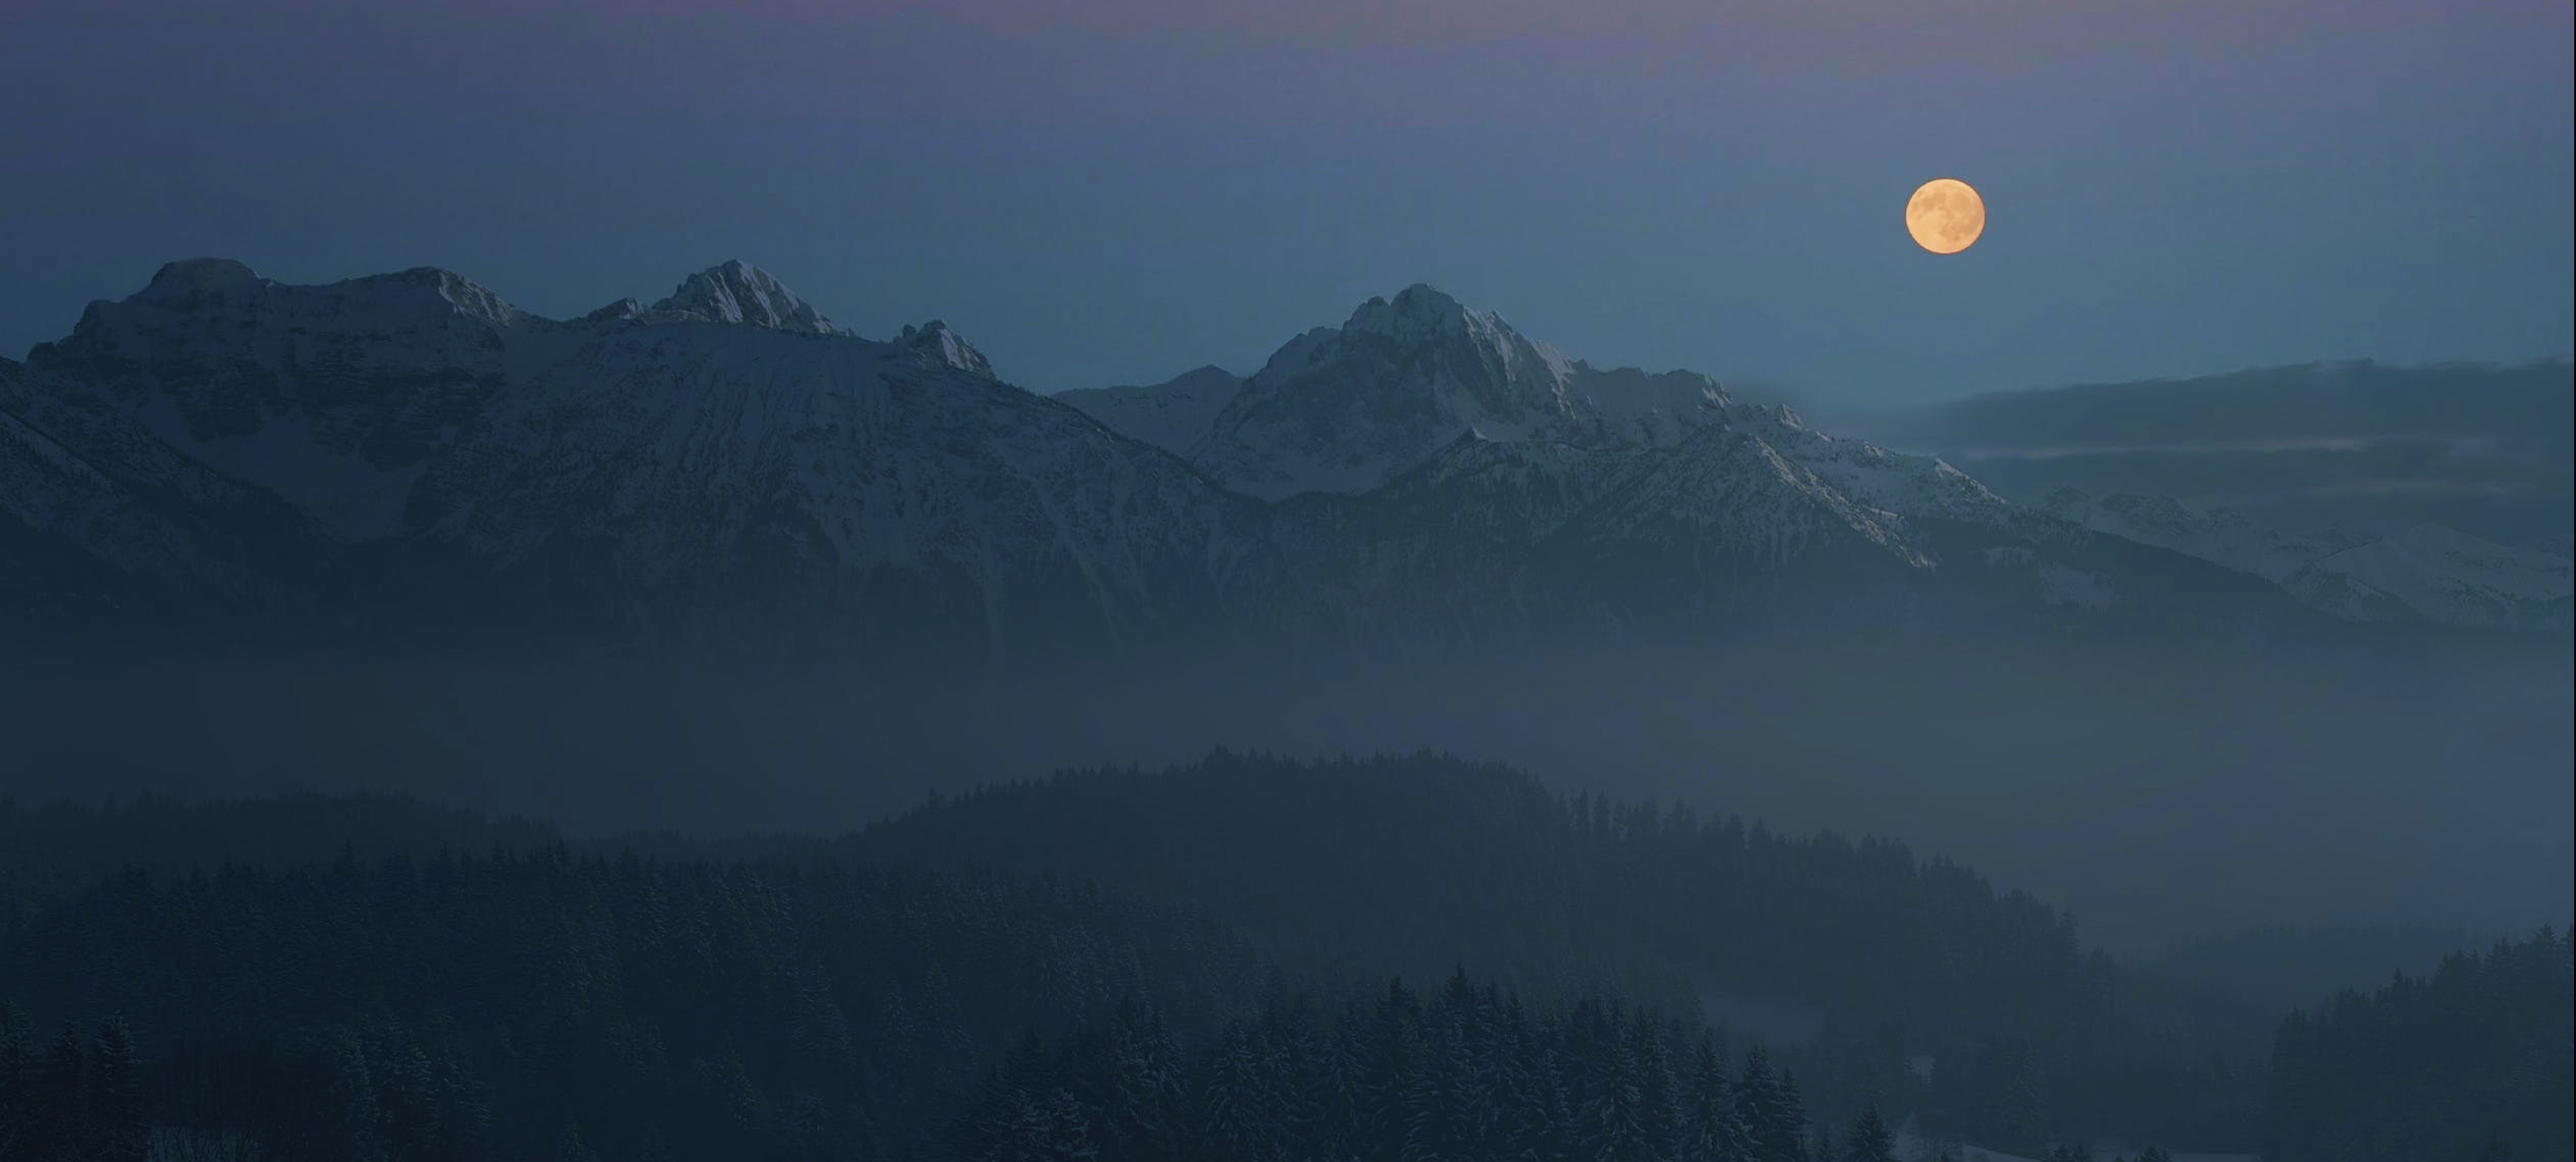
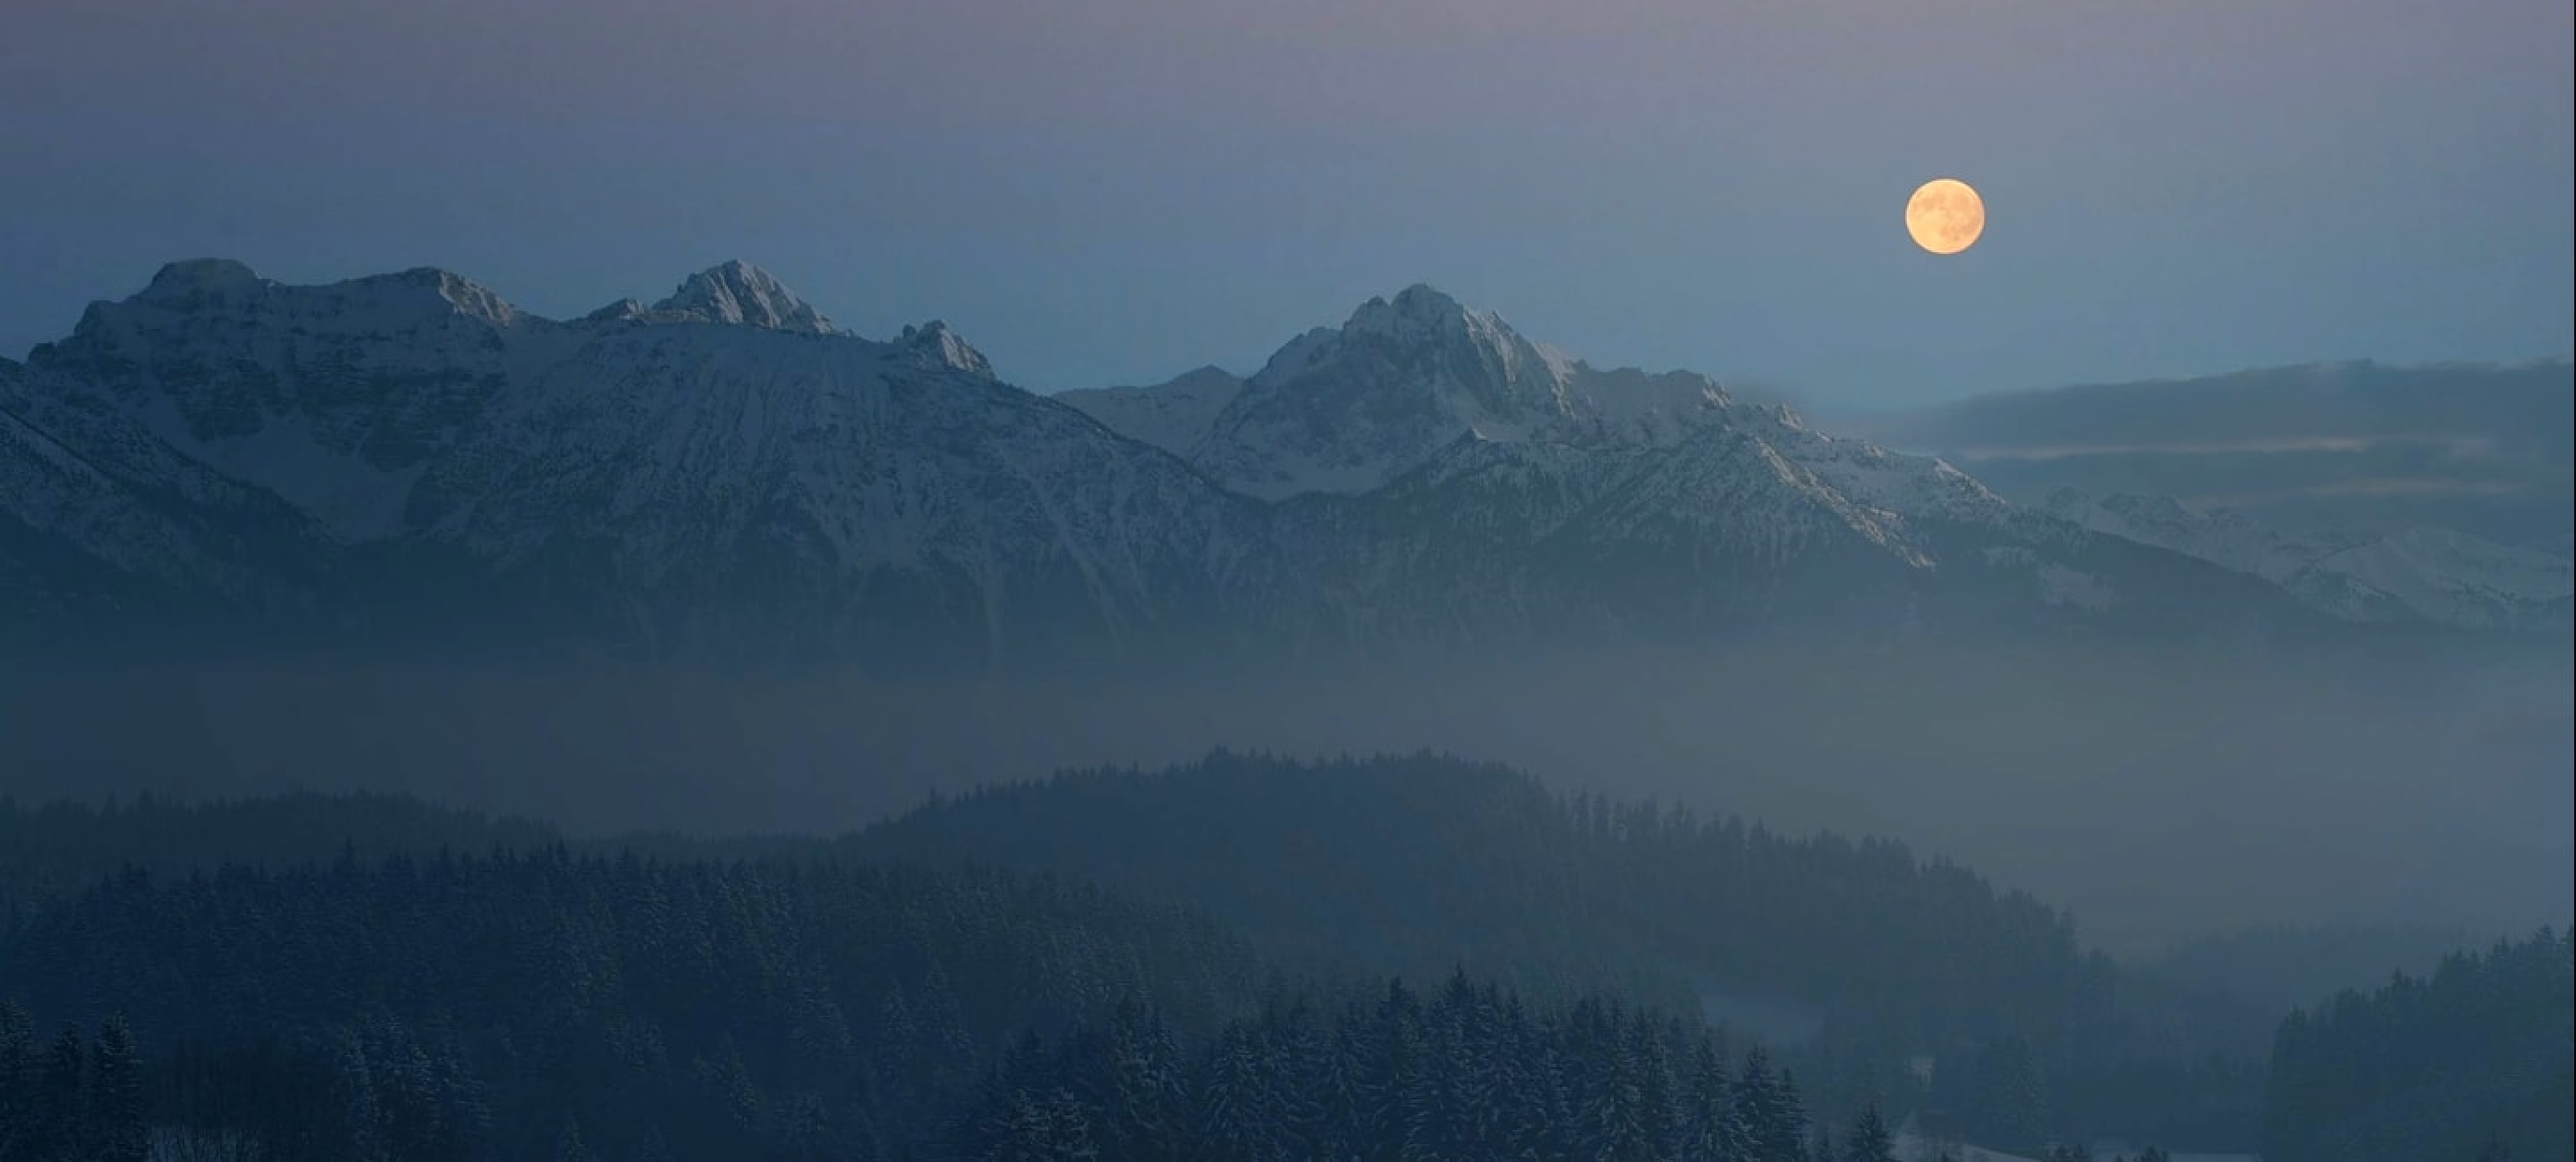
stories-page-responsive

Changed region(s): [[0.0, 0.0, 1.0, 0.7077], [0.6875, 0.5538, 0.9062, 0.6769], [0.0, 0.2154, 0.0625, 0.3077]]

diff --git a/src/components/stories/StoriesHeader.tsx b/src/components/stories/StoriesHeader.tsx
@@ -1,20 +1,25 @@
 import { Heading, FourthHeading, BaseText } from "../reusable/text";
 import Image from "next/image";
-import { moonOfAppalaciaImgMob } from "../../../public/assets/stories/mobile";
+import { moonOfAppalaciaImgMob, moonOfAppalaciaImgMobLg } from "../../../public/assets/stories/mobile";
+import { moonOfAppalaciaImgTab, moonOfAppalaciaImgTabLg } from "../../../public/assets/stories/tablet";
+import { moonOfAppalaciaImgDesk, moonOfAppalaciaImgDeskLg } from "../../../public/assets/stories/desktop";
 import Button from "../reusable/buttons/Button";
 import ArrowIcon from "../icons/ArrowIcon";
 
 const StoriesHeader = () => {
   return (
-    <header className="w-full col-start-1 col-end-13 bg-black">
-      <Image
-        src={moonOfAppalaciaImgMob}
-        alt="A misty forest with mountains in Appalachia at night with clear skies and a full moon"
-        priority={true}
-        quality={100}
-        className="object-cover object-center"
-      />
-      <div className="w-full px-6 py-12">
+    <header className="w-full col-start-1 col-end-13 bg-black smTab:grid smTab:grid-cols-overallMob md2Tab:grid-cols-overallTab desk:grid-cols-overallDesk">
+      <div className="w-full relative smTab:col-start-1 smTab:col-end-13 smTab:row-start-1 smTab:row-end-2">
+        <div className="absolute top-0 left-0 w-full h-full bg-gradient-to-b from-white/0 to-black/65"></div>
+        <Image
+          src={moonOfAppalaciaImgDeskLg}
+          alt="A misty forest with mountains in Appalachia at night with clear skies and a full moon"
+          priority={true}
+          quality={100}
+          className="w-full object-cover object-center smTab:h-full smTab:max-h-[650px]"
+        />
+      </div>
+      <div className="w-full px-6 py-12 z-10 max-w-[387px] smTab:col-start-2 smTab:col-end-12 smTab:row-start-1 smTab:row-end-2 smTab:px-0 smTab:py-[122px] smTab:self-center">
         <div className="grid gap-4">
           <FourthHeading theme="dark">
             LAST MONTH’S FEATURED STORY
@@ -28,13 +33,17 @@ const StoriesHeader = () => {
         <div className="w-full mt-6">
           <BaseText theme="dark">
             The dissected plateau area, while not actually made up of geological
-            mountains, is popularly called &quot;mountains,&quot; especially in eastern
-            Kentucky and West Virginia, and while the ridges are not high, the
-            terrain is extremely rugged.
+            mountains, is popularly called &quot;mountains,&quot; especially in
+            eastern Kentucky and West Virginia, and while the ridges are not
+            high, the terrain is extremely rugged.
           </BaseText>
-          <Button buttonType="primary" theme="primaryDark" className="uppercase mt-6">
+          <Button
+            buttonType="primary"
+            theme="primaryDark"
+            className="uppercase mt-6"
+          >
             Read the story
-            <ArrowIcon stroke="#fff"/>
+            <ArrowIcon stroke="#fff" />
           </Button>
         </div>
       </div>
